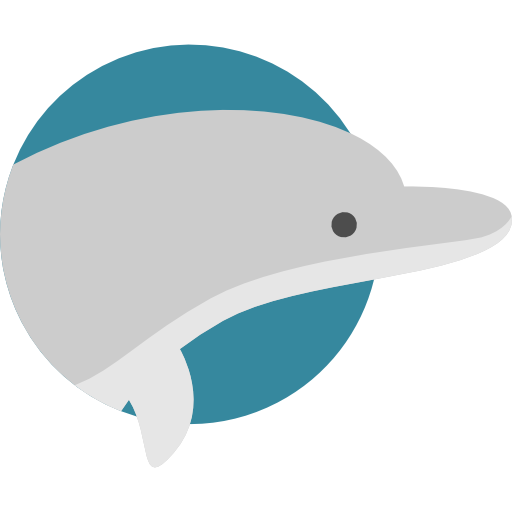
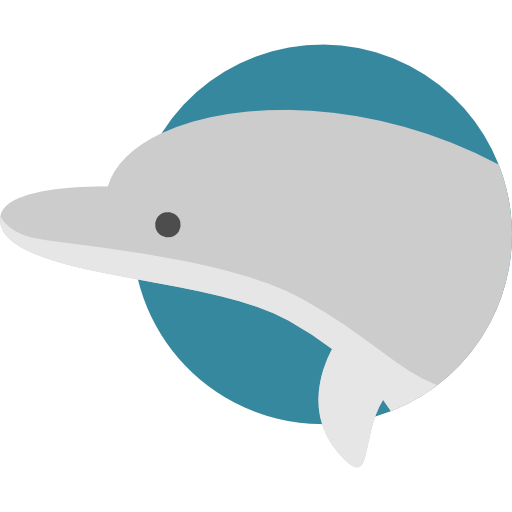
HomePageRedesign

diff --git a/screens/HomePageRedesign.js b/screens/HomePageRedesign.js
@@ -15,42 +15,140 @@ import {
 import { render } from 'react-dom';
 
 export const HomePageRedesign = ({ navigation }) => {
-  return (
-    
-    <View style = {styles.rightBox} backgroundColor = '#87A4EF'>
-    <TouchableOpacity
-      style = {styles.buttons} 
-      onPress={() => navigation.push('BudgetPage')} >
+    return (
+        <SafeAreaView backgroundColor = '#3AA4E0'>
 
-        <Image
-        style = {{height: 90, width: 90, marginTop: 14}} 
-        source={require('./assets/FoodAreas.png')}/>
+            {/* Light Blue Section that contains the Dolphin and Header */}
+            <View style={{backgroundColor: '#3AA4E0', height: hp('100%'), width: wp ('100%'), marginTop: -20}}>
 
-        <View style = {styles.bottomTextBorder}> 
-          <Text style = {styles.boxText}>Food Areas</Text>
-        </View>
+                {/* The second section of the screen that contains the horizontal scroll bar */}
+                <View style={{flexDirection: "row", backgroundColor: "#2A7FAE", marginTop: hp('47%'), width: wp('100%'), height: hp('45%'), borderTopLeftRadius: 30 }}>
 
-        
-    </TouchableOpacity>
-  </View>
+                    {/* Vertical Line that ends the scrollview */}
+                    <View style = {{position: 'absolute', height: 20, width: 120, backgroundColor: 'white', borderRadius: 20, transform: [{rotate: "90deg"}] }}/>
+                    
+                    <ScrollView style={{ position: 'absolute', marginLeft: 30, marginTop: 30 }} horizontal={true}>
 
-  );
+                        {/* View that contains all the buttons within ScrollView */}
+                        <View style={styles.scroll}>
+
+                            {/* Buttons */}
+                            <TouchableOpacity
+                                style={styles.buttons}
+                                onPress={() => navigation.push('BudgetPage')} >
+
+                                <Image
+                                    style={{ height: 80, width: 80, marginTop: 10 }}
+                                    source={require('./assets/DinnerDate.png')}
+                                />
+
+                                <View style={styles.bottomTextBorder}>
+                                    <Text style={styles.boxText}>Dinner Dates</Text>
+                                </View>
+                            </TouchableOpacity>
+
+                            <TouchableOpacity
+                                style={styles.buttons}
+                                onPress={() => navigation.push('BudgetPage')} >
+
+                                <Image
+                                    style={{ height: 80, width: 80, marginTop: 10 }}
+                                    source={require('./assets/FoodAreas.png')}
+                                />
+
+                                <View style={styles.bottomTextBorder}>
+                                    <Text style={styles.boxText}>Food Areas</Text>
+                                </View>
+
+                            </TouchableOpacity>
+
+                            <TouchableOpacity
+                                style={styles.buttons}
+                                onPress={() => navigation.push('BudgetPage')} >
+
+                                <Image
+                                    style={{ height: 80, width: 80, marginTop: 10 }}
+                                    source={require('./assets/DinnerDate.png')}
+                                />
+
+                                <View style={styles.bottomTextBorder}>
+                                    <Text style={styles.boxText}>Dinner Dates</Text>
+                                </View>
+                            </TouchableOpacity>
+                       
+                        </View>
+
+                    </ScrollView>
+
+                    {/* The final section of the screen that contains the continue button */}
+                <View style={{backgroundColor: "#0E2163", marginTop: hp('28%'), width: wp('100%'), height: hp('30%'), borderTopLeftRadius: 30 }}>
+
+                </View>
+                    
+
+                </View>
+
+                {/* The Dolphin */}
+                <Image style = {styles.dolphin}
+                source={require('./assets/dolphin.png')}/> 
+
+                {/* The Header */}
+                <Text style = {styles.header}> 
+                    Categories
+                </Text>
+                
+            </View>
+
+        </SafeAreaView>
+    );
 }
 
 
 const styles = StyleSheet.create({
 
-  rightBox: {
-    marginTop: 25,  
-    backgroundColor: '#D9B08C', 
-    marginRight: 20, 
-    borderRadius: 10,
-    width: wp('42.1%'),
-    height: hp('23.7%'),
-    shadowColor: '#000',
-    shadowOffset: { width: 1, height: 4 },
-    shadowOpacity: .8,
-    shadowRadius: 3,
+  dolphin: {
+    position: 'absolute',
+    transform: [{translateX: 25}, {translateY: -120}, {rotate: "-30deg"}, {scale: .8}]
   },
 
+  header: {
+    position: 'absolute',
+    color: 'white',
+    marginTop: hp ('38%'),
+    marginLeft: wp ('4%'),
+    fontSize: 40,
+  },
+
+  buttons: {
+    backgroundColor: '#9DF5F5',
+    height: wp ('35%'),
+    width: hp ('20%'),
+    borderRadius: 20,
+    alignItems: 'center',
+    marginLeft: 20,
+    shadowColor: 'white',
+    shadowOffset: {width: 4, height: 4},
+    shadowOpacity: .5,
+    shadowRadius: 1,
+  },
+  
+  bottomTextBorder: {
+      backgroundColor: 'white',
+      marginTop: 10,
+      width: hp ('20%'),
+      height: wp ('8.4%'),
+      alignItems: "center",
+      borderBottomLeftRadius: 20, 
+      borderBottomRightRadius: 20,
+  },
+
+  boxText: {
+      marginTop: 3,
+      fontSize: 18
+  },
+
+  scroll: {
+    flexDirection: 'row',
+    height: 200,
+  }
 });

diff --git a/App.js b/App.js
@@ -51,7 +51,7 @@ const FavoritesStack = createStackNavigator();
 const HomeStackScreen = ({ navigation }) => (
   <HomeStack.Navigator screenOptions={{
       headerStyle:{
-        backgroundColor: '#B8E5FF',
+        backgroundColor: '#3AA4E0',
       },
       headerTintColor: 'black',     //back button color
       headerTitleStyle: {             //header title
@@ -66,7 +66,7 @@ const HomeStackScreen = ({ navigation }) => (
             name= "menu"
             size={25}
             color="#000000"           //menu tab color
-            backgroundColor= "#B8E5FF"
+            backgroundColor= "#3AA4E0"
             onPress={() => navigation.toggleDrawer()}/>
         )
         }} />
